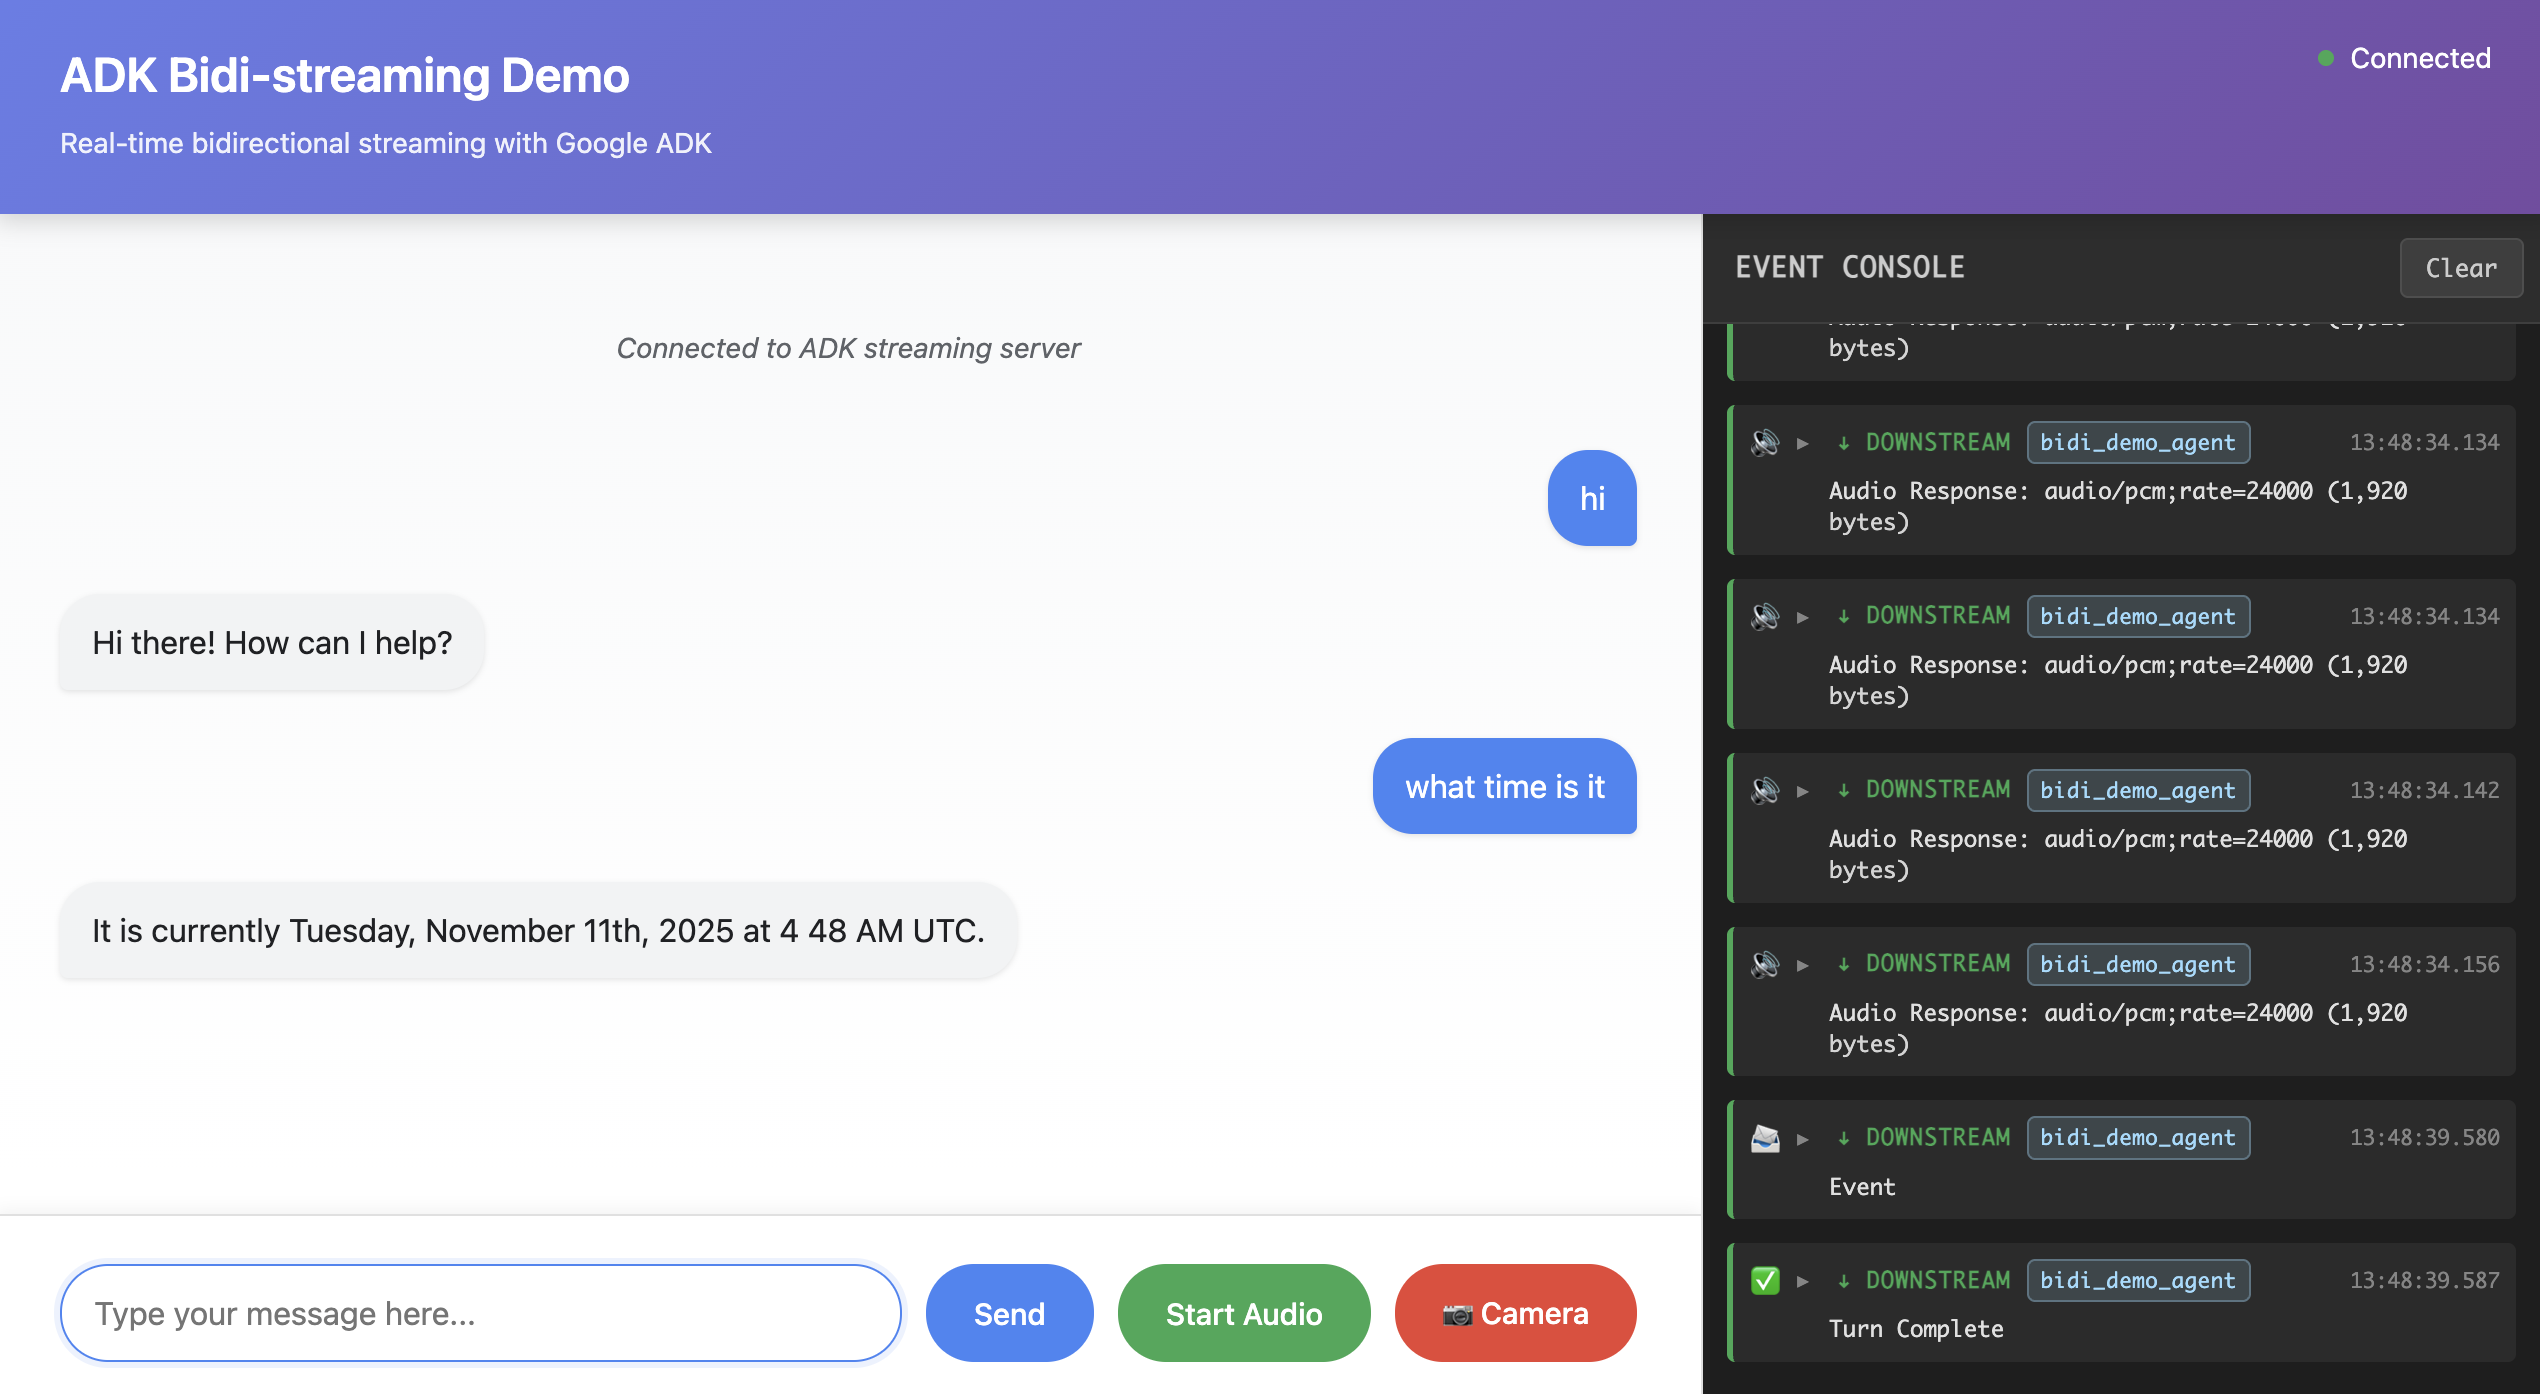
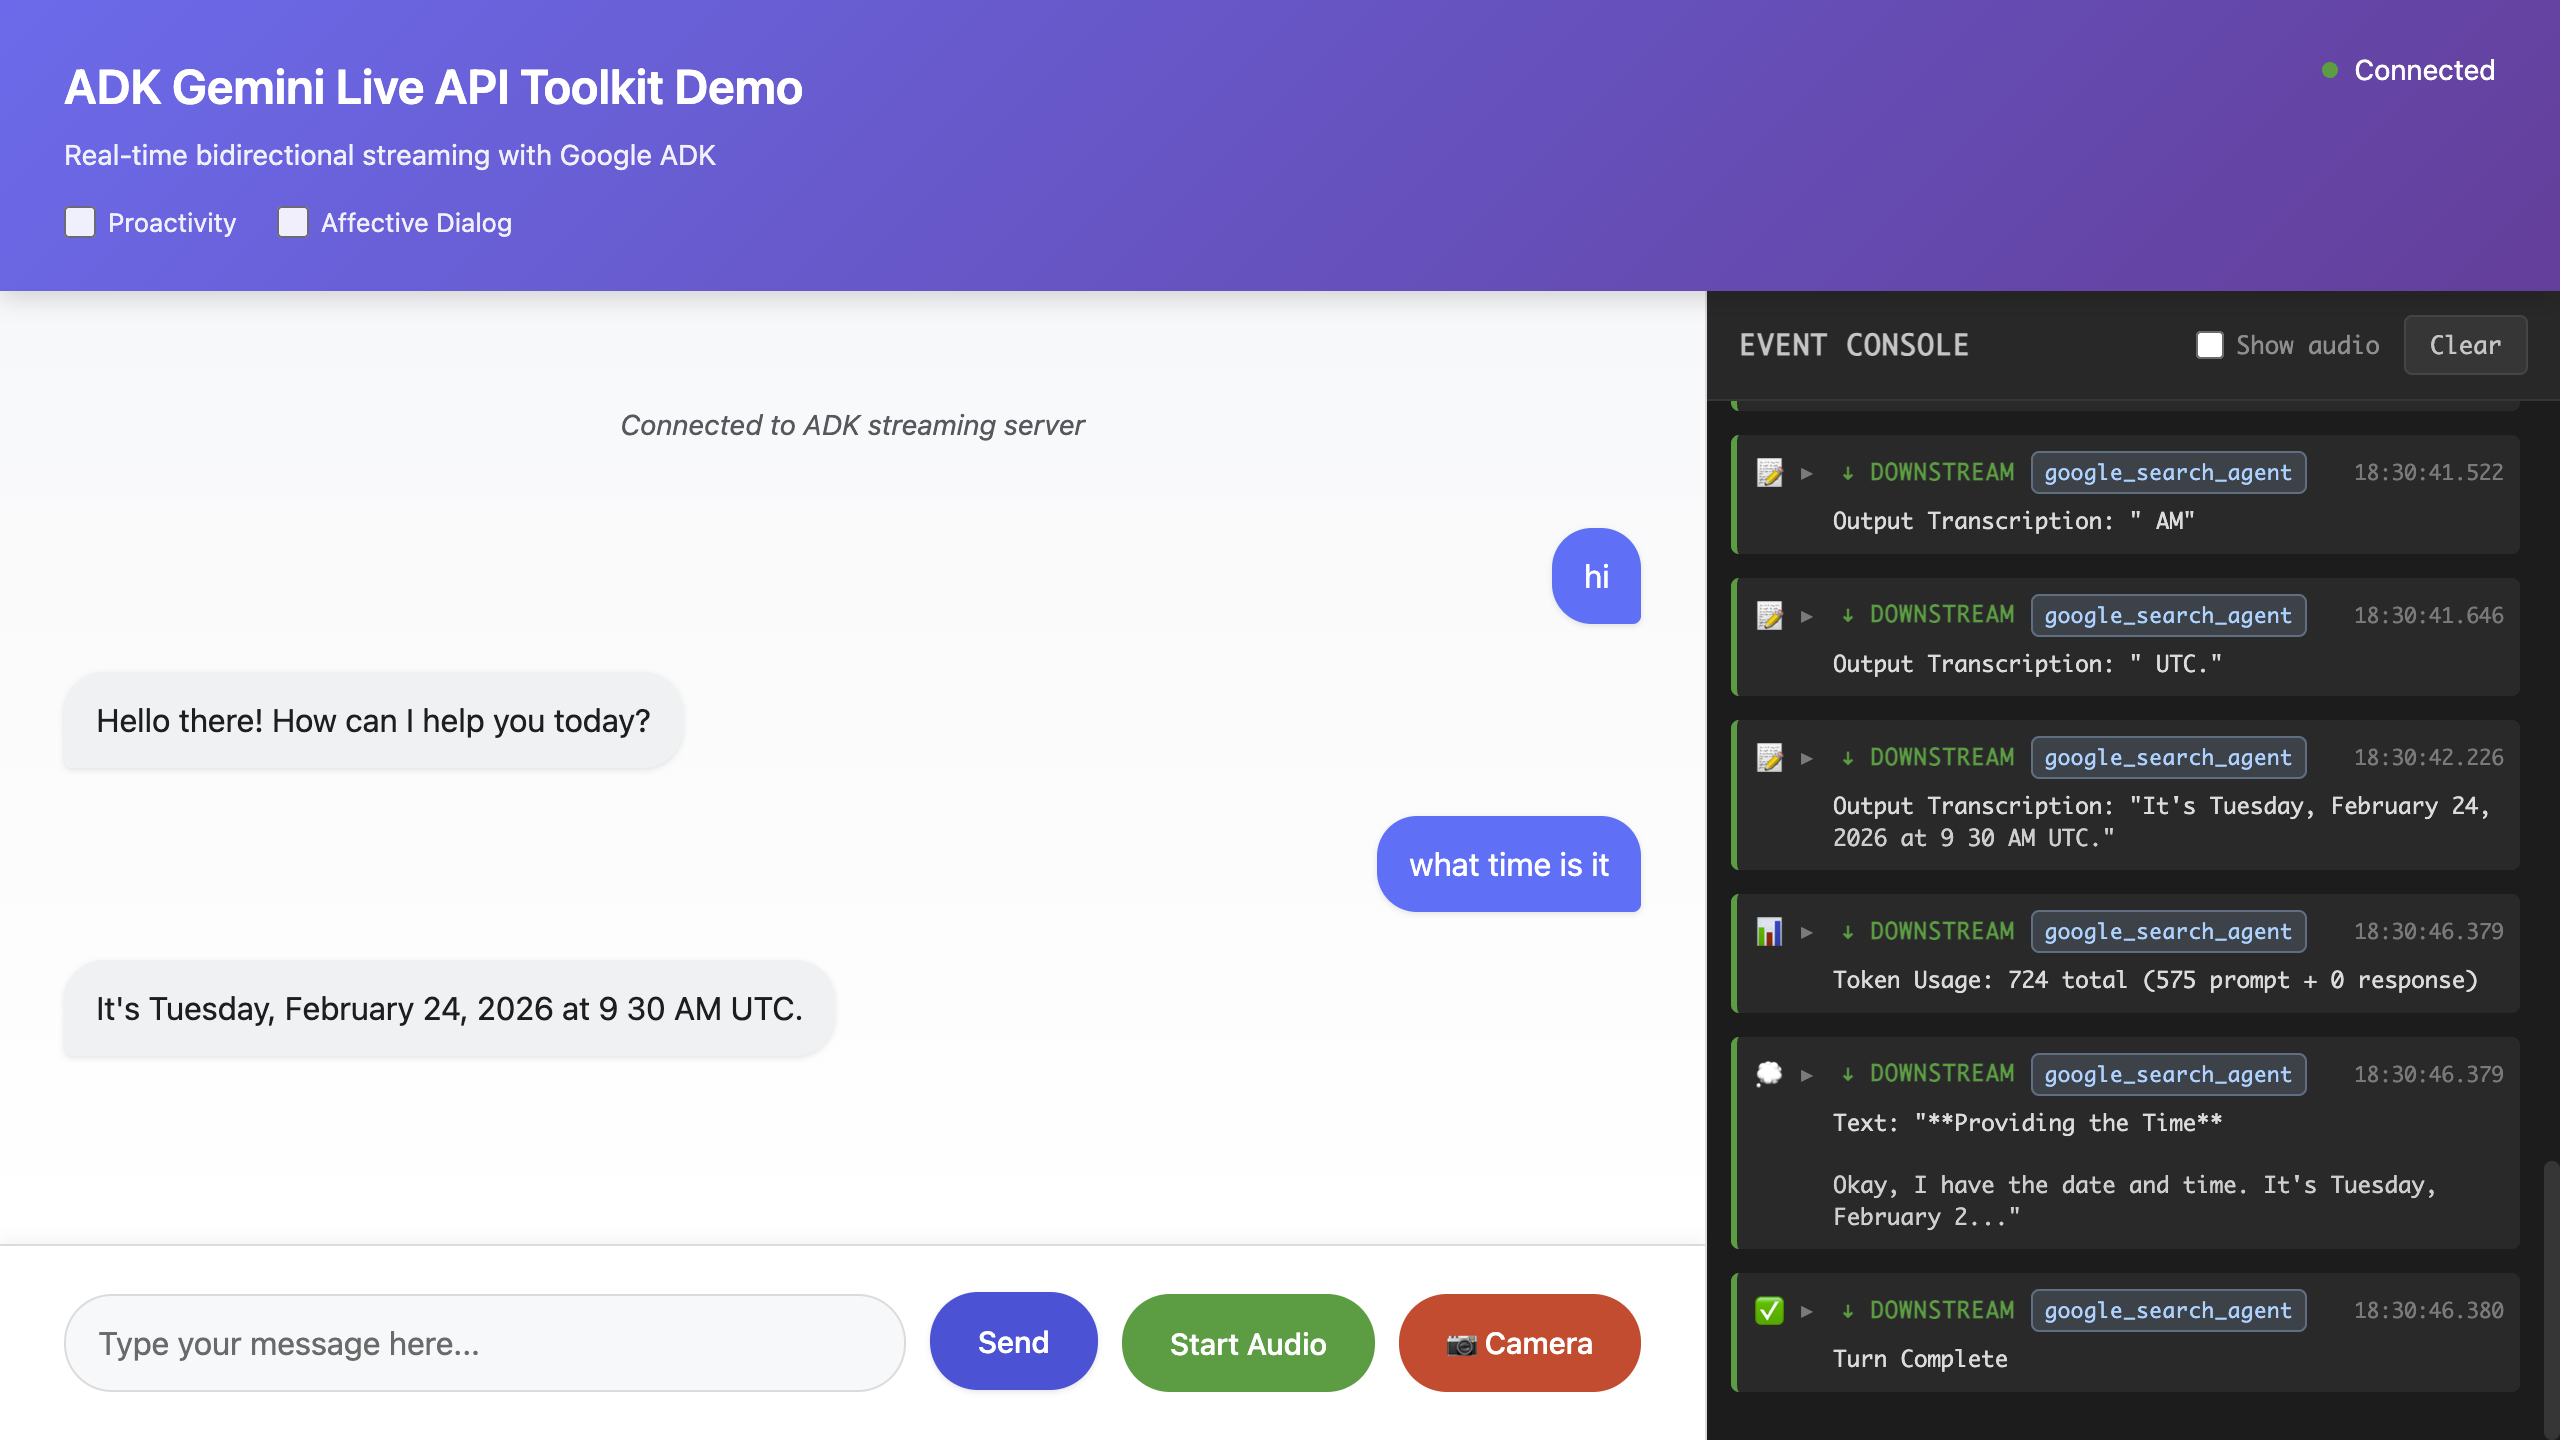
fix: prevent duplicate thinking text in chat bubbles
The native-audio model sends thinking text twice: once as a partial
event with thought:true, then again as final aggregated content. Skip
thought parts from chat bubbles and suppress the final replay. Also
update screenshots to reflect the new app name.

diff --git a/src/bidi-demo/app/static/js/app.js b/src/bidi-demo/app/static/js/app.js
@@ -1,5 +1,5 @@
 /**
- * app.js: JS code for the ADK Bidi-streaming demo app.
+ * app.js: JS code for the ADK Gemini Live API Toolkit demo app.
  */
 
 /**
@@ -70,6 +70,7 @@ let currentInputTranscriptionElement = null;
 let currentOutputTranscriptionId = null;
 let currentOutputTranscriptionElement = null;
 let inputTranscriptionFinished = false; // Track if input transcription is complete for this turn
+let hasThoughtInTurn = false; // Track if thinking text was seen in this turn
 
 // Helper function to clean spaces between CJK characters
 // Removes spaces between Japanese/Chinese/Korean characters while preserving spaces around Latin text
@@ -482,6 +483,7 @@ function connectWebsocket() {
       currentOutputTranscriptionId = null;
       currentOutputTranscriptionElement = null;
       inputTranscriptionFinished = false; // Reset for next turn
+      hasThoughtInTurn = false; // Reset for next turn
       return;
     }
 
@@ -526,6 +528,7 @@ function connectWebsocket() {
       currentOutputTranscriptionId = null;
       currentOutputTranscriptionElement = null;
       inputTranscriptionFinished = false; // Reset for next turn
+      hasThoughtInTurn = false; // Reset for next turn
       return;
     }
 
@@ -668,6 +671,17 @@ function connectWebsocket() {
 
         // Handle text
         if (part.text) {
+          // Skip thinking/reasoning text from chat bubbles (shown in event console)
+          if (part.thought) {
+            hasThoughtInTurn = true;
+            continue;
+          }
+
+          // Skip final aggregated content that replays thinking text already seen
+          if (!adkEvent.partial && hasThoughtInTurn) {
+            continue;
+          }
+
           // Add a new message bubble for a new turn
           if (currentMessageId == null) {
             currentMessageId = Math.random().toString(36).substring(7);

diff --git a/workshops/src/app/static/js/app.js b/workshops/src/app/static/js/app.js
@@ -1,5 +1,5 @@
 /**
- * app.js: JS code for the ADK Bidi-streaming demo app.
+ * app.js: JS code for the ADK Gemini Live API Toolkit demo app.
  */
 
 /**
@@ -70,6 +70,7 @@ let currentInputTranscriptionElement = null;
 let currentOutputTranscriptionId = null;
 let currentOutputTranscriptionElement = null;
 let inputTranscriptionFinished = false; // Track if input transcription is complete for this turn
+let hasThoughtInTurn = false; // Track if thinking text was seen in this turn
 
 // Helper function to clean spaces between CJK characters
 // Removes spaces between Japanese/Chinese/Korean characters while preserving spaces around Latin text
@@ -482,6 +483,7 @@ function connectWebsocket() {
       currentOutputTranscriptionId = null;
       currentOutputTranscriptionElement = null;
       inputTranscriptionFinished = false; // Reset for next turn
+      hasThoughtInTurn = false; // Reset for next turn
       return;
     }
 
@@ -526,6 +528,7 @@ function connectWebsocket() {
       currentOutputTranscriptionId = null;
       currentOutputTranscriptionElement = null;
       inputTranscriptionFinished = false; // Reset for next turn
+      hasThoughtInTurn = false; // Reset for next turn
       return;
     }
 
@@ -668,6 +671,17 @@ function connectWebsocket() {
 
         // Handle text
         if (part.text) {
+          // Skip thinking/reasoning text from chat bubbles (shown in event console)
+          if (part.thought) {
+            hasThoughtInTurn = true;
+            continue;
+          }
+
+          // Skip final aggregated content that replays thinking text already seen
+          if (!adkEvent.partial && hasThoughtInTurn) {
+            continue;
+          }
+
           // Add a new message bubble for a new turn
           if (currentMessageId == null) {
             currentMessageId = Math.random().toString(36).substring(7);